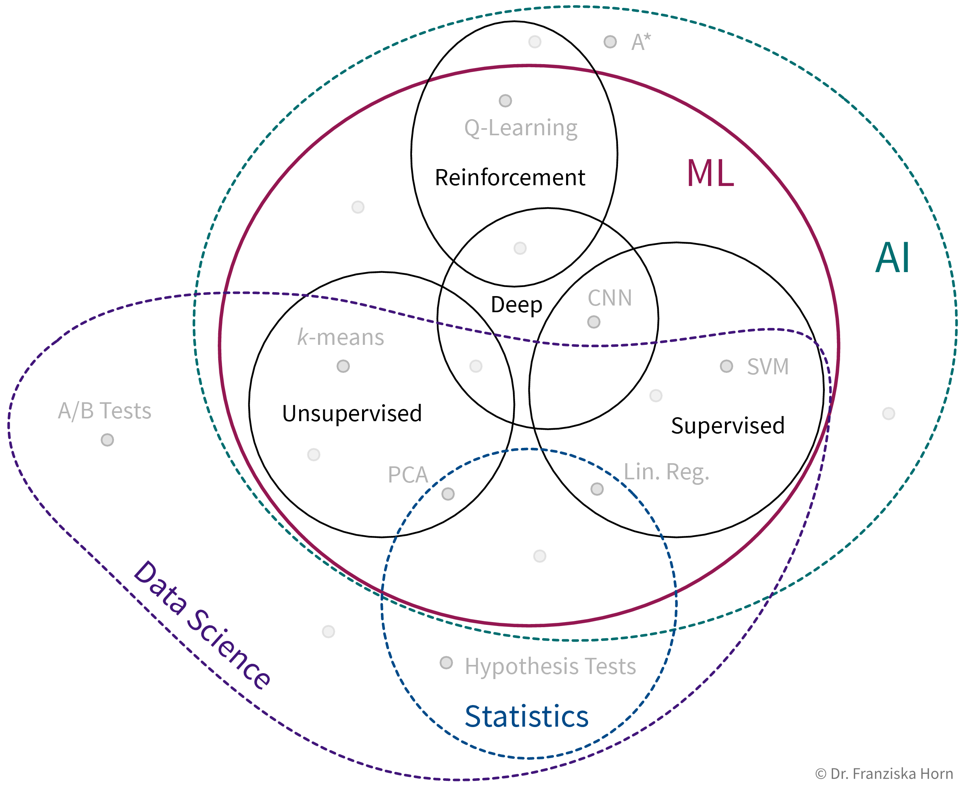
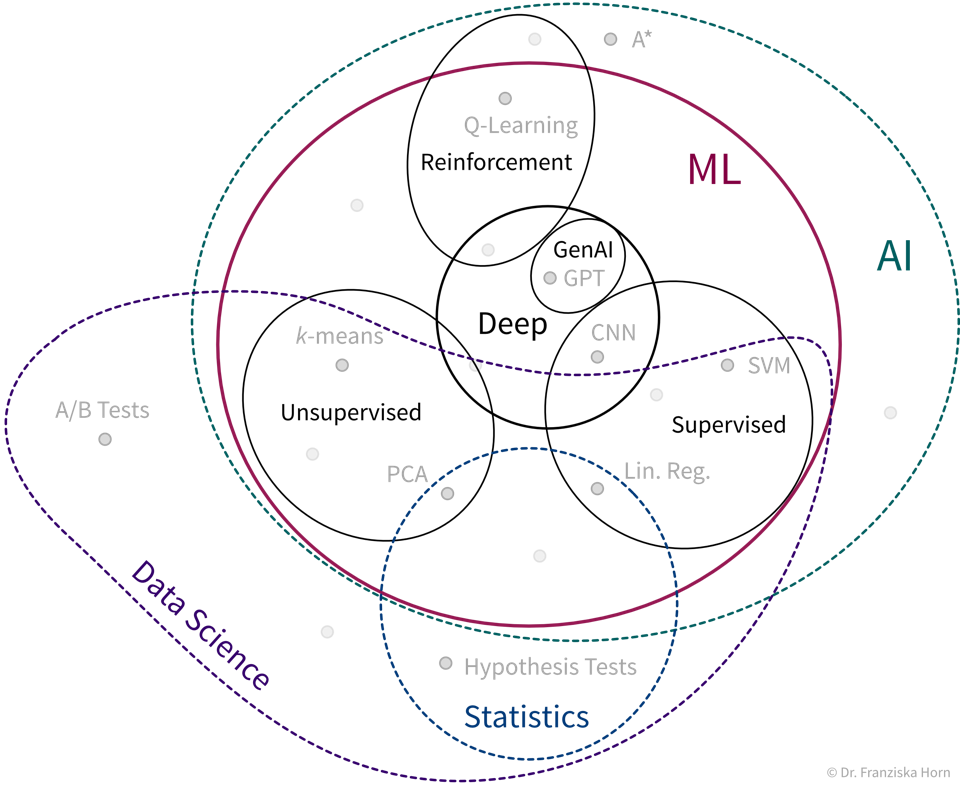
add genai in toolbox image

diff --git a/mlbook_abstract_all.html b/mlbook_abstract_all.html
@@ -1487,7 +1487,7 @@ Simply speaking, an <strong>algorithm</strong> can be thought of as a <strong>st
 <div class="content">
 <img src="images/01b_intro_ml/ml_toolset6.png" alt="image" width="640">
 </div>
-<div class="title"><span class="small">ML itself is a subfield of AI, which is currently the more frequently used buzzword, but all the cool applications (e.g., the examples we&#8217;ve seen in the beginning) actually use ML. Besides ML, AI includes, for example, some search algorithms that were used for building the first chess computers. ML can be divided into three main subfields, unsupervised, supervised, and reinforcement learning. Additionally, the subfield &#8220;deep learning&#8221; is a buzzword for neural network models. Some of the simplest algorithms used in ML, like linear regression or PCA (very similar to factor analysis), are also used by statisticians, who additionally use other tools, like hypothesis tests, which do not learn rules or patterns from data. Finally, most data scientists use many tools from ML and statistics, but they as well use some additional tools like A/B tests, e.g., for collecting data on whether a red or green &#8220;buy&#8221; button on a website generates more sales, which do not fall into any of the other categories.</span></div>
+<div class="title"><span class="small">ML itself is a subfield of AI, which is currently the more frequently used buzzword, but all the cool applications (e.g., the examples we&#8217;ve seen in the beginning) actually use ML. Besides ML, AI includes, for example, some search algorithms that were used for building the first chess computers. ML can be divided into three main subfields, unsupervised, supervised, and reinforcement learning. Additionally, the subfield &#8220;deep learning&#8221; is a buzzword for neural network models and also includes Generative AI (GenAI) models like ChatGPT. Some of the simplest algorithms used in ML, like linear regression or PCA (very similar to factor analysis), are also used by statisticians, who additionally use other tools, like hypothesis tests, which do not learn rules or patterns from data. Finally, most data scientists use many tools from ML and statistics, but they as well use some additional tools like A/B tests, e.g., for collecting data on whether a red or green &#8220;buy&#8221; button on a website generates more sales, which do not fall into any of the other categories.</span></div>
 </div>
 <div class="dlist">
 <dl>
@@ -2704,7 +2704,7 @@ Does the solution consist of a piece of <strong>software</strong> that is deploy
 <p>Do you need an additional user interface (UI) or API to interact with the ML model?</p>
 </li>
 <li>
-<p>Does the ML model need to make predictions instantly as new data comes in or can it process data asynchronously in batches? What is the expected traffic (i.e., number of data points that need to be processed per seconds)?</p>
+<p>Does the ML model need to make predictions instantly as new data comes in or can it process data asynchronously in batches? What is the expected traffic (i.e., number of data points that need to be processed per second)?</p>
 </li>
 <li>
 <p>How should the ML model be deployed (e.g., cloud, on-premise, or edge device)? Does this require any additional infrastructure or special hardware (e.g., GPUs)?</p>

diff --git a/mlbook_all.html b/mlbook_all.html
@@ -1608,7 +1608,7 @@ Simply speaking, an <strong>algorithm</strong> can be thought of as a <strong>st
 <div class="content">
 <img src="images/01b_intro_ml/ml_toolset6.png" alt="image" width="640">
 </div>
-<div class="title"><span class="small">ML itself is a subfield of AI, which is currently the more frequently used buzzword, but all the cool applications (e.g., the examples we&#8217;ve seen in the beginning) actually use ML. Besides ML, AI includes, for example, some search algorithms that were used for building the first chess computers. ML can be divided into three main subfields, unsupervised, supervised, and reinforcement learning. Additionally, the subfield &#8220;deep learning&#8221; is a buzzword for neural network models. Some of the simplest algorithms used in ML, like linear regression or PCA (very similar to factor analysis), are also used by statisticians, who additionally use other tools, like hypothesis tests, which do not learn rules or patterns from data. Finally, most data scientists use many tools from ML and statistics, but they as well use some additional tools like A/B tests, e.g., for collecting data on whether a red or green &#8220;buy&#8221; button on a website generates more sales, which do not fall into any of the other categories.</span></div>
+<div class="title"><span class="small">ML itself is a subfield of AI, which is currently the more frequently used buzzword, but all the cool applications (e.g., the examples we&#8217;ve seen in the beginning) actually use ML. Besides ML, AI includes, for example, some search algorithms that were used for building the first chess computers. ML can be divided into three main subfields, unsupervised, supervised, and reinforcement learning. Additionally, the subfield &#8220;deep learning&#8221; is a buzzword for neural network models and also includes Generative AI (GenAI) models like ChatGPT. Some of the simplest algorithms used in ML, like linear regression or PCA (very similar to factor analysis), are also used by statisticians, who additionally use other tools, like hypothesis tests, which do not learn rules or patterns from data. Finally, most data scientists use many tools from ML and statistics, but they as well use some additional tools like A/B tests, e.g., for collecting data on whether a red or green &#8220;buy&#8221; button on a website generates more sales, which do not fall into any of the other categories.</span></div>
 </div>
 <div class="dlist">
 <dl>
@@ -2825,7 +2825,7 @@ Does the solution consist of a piece of <strong>software</strong> that is deploy
 <p>Do you need an additional user interface (UI) or API to interact with the ML model?</p>
 </li>
 <li>
-<p>Does the ML model need to make predictions instantly as new data comes in or can it process data asynchronously in batches? What is the expected traffic (i.e., number of data points that need to be processed per seconds)?</p>
+<p>Does the ML model need to make predictions instantly as new data comes in or can it process data asynchronously in batches? What is the expected traffic (i.e., number of data points that need to be processed per second)?</p>
 </li>
 <li>
 <p>How should the ML model be deployed (e.g., cloud, on-premise, or edge device)? Does this require any additional infrastructure or special hardware (e.g., GPUs)?</p>

diff --git a/mlbuch_auszug/_was_ist_ml.html b/mlbuch_auszug/_was_ist_ml.html
@@ -1028,7 +1028,7 @@ Vereinfacht kann man sich einen <strong>Algorithmus</strong> als <strong>Strateg
 <div class="content">
 <img src="../images/01b_intro_ml/ml_toolset6.png" alt="image" width="640">
 </div>
-<div class="title"><span class="small">ML selbst ist ein Teilbereich der Künstlichen Intelligenz (KI/AI), das derzeit zwar häufiger verwendete Buzzword, jedoch basieren alle wirklich interessanten Anwendungen, z.B. die initial gezeigten Beispiele, tatsächlich auf ML. Zu KI gehören ansonsten zum Beispiel noch einige Suchalgorithmen, die beim Bau der ersten Schachcomputer verwendet wurden. ML kann wiederum in drei Hauptbereiche unterteilt werden, Unsupervised (&#8220;Unüberwachtes&#8221;), Supervised (&#8220;Überwachtes&#8221;) und Reinforcement (&#8220;Bestärkendes&#8221;) Learning. Das Buzzword &#8220;Deep Learning&#8221; ist außerdem ein Überbegriff für neuronale Netzwerkmodelle. Einige der einfachsten im ML verwendeten Algorithmen, wie die lineare Regression oder PCA (sehr ähnlich der Faktorenanalyse), werden auch von Statistikern verwendet, die jedoch auch andere Werkzeuge wie Hypothesentests verwenden, welche keine Regeln oder Muster aus Daten lernen. Die meisten Data Scientists verwenden viele Methoden aus ML und Statistik, aber auch zusätzliche Werkzeuge wie A/B-Tests, z.B. um zu überprüfen, ob ein roter oder grüner &#8220;Kaufen&#8221;-Button auf einer Website mehr Umsatz generiert.</span></div>
+<div class="title"><span class="small">ML selbst ist ein Teilbereich der Künstlichen Intelligenz (KI/AI), das derzeit zwar häufiger verwendete Buzzword, jedoch basieren alle wirklich interessanten Anwendungen, z.B. die initial gezeigten Beispiele, tatsächlich auf ML. Zu KI gehören ansonsten zum Beispiel noch einige Suchalgorithmen, die beim Bau der ersten Schachcomputer verwendet wurden. ML kann wiederum in drei Hauptbereiche unterteilt werden, Unsupervised (&#8220;Unüberwachtes&#8221;), Supervised (&#8220;Überwachtes&#8221;) und Reinforcement (&#8220;Bestärkendes&#8221;) Learning. Das Buzzword &#8220;Deep Learning&#8221; ist außerdem ein Überbegriff für neuronale Netzwerkmodelle und beinhaltet auch Generative AI (GenAI) Modelle wie ChatGPT. Einige der einfachsten im ML verwendeten Algorithmen, wie die lineare Regression oder PCA (sehr ähnlich der Faktorenanalyse), werden auch von Statistikern verwendet, die jedoch auch andere Werkzeuge wie Hypothesentests verwenden, welche keine Regeln oder Muster aus Daten lernen. Die meisten Data Scientists verwenden viele Methoden aus ML und Statistik, aber auch zusätzliche Werkzeuge wie A/B-Tests, z.B. um zu überprüfen, ob ein roter oder grüner &#8220;Kaufen&#8221;-Button auf einer Website mehr Umsatz generiert.</span></div>
 </div>
 <div class="dlist">
 <dl>

diff --git a/mlbuch_auszug_all.html b/mlbuch_auszug_all.html
@@ -1487,7 +1487,7 @@ Vereinfacht kann man sich einen <strong>Algorithmus</strong> als <strong>Strateg
 <div class="content">
 <img src="images/01b_intro_ml/ml_toolset6.png" alt="image" width="640">
 </div>
-<div class="title"><span class="small">ML selbst ist ein Teilbereich der Künstlichen Intelligenz (KI/AI), das derzeit zwar häufiger verwendete Buzzword, jedoch basieren alle wirklich interessanten Anwendungen, z.B. die initial gezeigten Beispiele, tatsächlich auf ML. Zu KI gehören ansonsten zum Beispiel noch einige Suchalgorithmen, die beim Bau der ersten Schachcomputer verwendet wurden. ML kann wiederum in drei Hauptbereiche unterteilt werden, Unsupervised (&#8220;Unüberwachtes&#8221;), Supervised (&#8220;Überwachtes&#8221;) und Reinforcement (&#8220;Bestärkendes&#8221;) Learning. Das Buzzword &#8220;Deep Learning&#8221; ist außerdem ein Überbegriff für neuronale Netzwerkmodelle. Einige der einfachsten im ML verwendeten Algorithmen, wie die lineare Regression oder PCA (sehr ähnlich der Faktorenanalyse), werden auch von Statistikern verwendet, die jedoch auch andere Werkzeuge wie Hypothesentests verwenden, welche keine Regeln oder Muster aus Daten lernen. Die meisten Data Scientists verwenden viele Methoden aus ML und Statistik, aber auch zusätzliche Werkzeuge wie A/B-Tests, z.B. um zu überprüfen, ob ein roter oder grüner &#8220;Kaufen&#8221;-Button auf einer Website mehr Umsatz generiert.</span></div>
+<div class="title"><span class="small">ML selbst ist ein Teilbereich der Künstlichen Intelligenz (KI/AI), das derzeit zwar häufiger verwendete Buzzword, jedoch basieren alle wirklich interessanten Anwendungen, z.B. die initial gezeigten Beispiele, tatsächlich auf ML. Zu KI gehören ansonsten zum Beispiel noch einige Suchalgorithmen, die beim Bau der ersten Schachcomputer verwendet wurden. ML kann wiederum in drei Hauptbereiche unterteilt werden, Unsupervised (&#8220;Unüberwachtes&#8221;), Supervised (&#8220;Überwachtes&#8221;) und Reinforcement (&#8220;Bestärkendes&#8221;) Learning. Das Buzzword &#8220;Deep Learning&#8221; ist außerdem ein Überbegriff für neuronale Netzwerkmodelle und beinhaltet auch Generative AI (GenAI) Modelle wie ChatGPT. Einige der einfachsten im ML verwendeten Algorithmen, wie die lineare Regression oder PCA (sehr ähnlich der Faktorenanalyse), werden auch von Statistikern verwendet, die jedoch auch andere Werkzeuge wie Hypothesentests verwenden, welche keine Regeln oder Muster aus Daten lernen. Die meisten Data Scientists verwenden viele Methoden aus ML und Statistik, aber auch zusätzliche Werkzeuge wie A/B-Tests, z.B. um zu überprüfen, ob ein roter oder grüner &#8220;Kaufen&#8221;-Button auf einer Website mehr Umsatz generiert.</span></div>
 </div>
 <div class="dlist">
 <dl>

diff --git a/mlbook/_what_is_ml.html b/mlbook/_what_is_ml.html
@@ -1036,7 +1036,7 @@ Simply speaking, an <strong>algorithm</strong> can be thought of as a <strong>st
 <div class="content">
 <img src="../images/01b_intro_ml/ml_toolset6.png" alt="image" width="640">
 </div>
-<div class="title"><span class="small">ML itself is a subfield of AI, which is currently the more frequently used buzzword, but all the cool applications (e.g., the examples we&#8217;ve seen in the beginning) actually use ML. Besides ML, AI includes, for example, some search algorithms that were used for building the first chess computers. ML can be divided into three main subfields, unsupervised, supervised, and reinforcement learning. Additionally, the subfield &#8220;deep learning&#8221; is a buzzword for neural network models. Some of the simplest algorithms used in ML, like linear regression or PCA (very similar to factor analysis), are also used by statisticians, who additionally use other tools, like hypothesis tests, which do not learn rules or patterns from data. Finally, most data scientists use many tools from ML and statistics, but they as well use some additional tools like A/B tests, e.g., for collecting data on whether a red or green &#8220;buy&#8221; button on a website generates more sales, which do not fall into any of the other categories.</span></div>
+<div class="title"><span class="small">ML itself is a subfield of AI, which is currently the more frequently used buzzword, but all the cool applications (e.g., the examples we&#8217;ve seen in the beginning) actually use ML. Besides ML, AI includes, for example, some search algorithms that were used for building the first chess computers. ML can be divided into three main subfields, unsupervised, supervised, and reinforcement learning. Additionally, the subfield &#8220;deep learning&#8221; is a buzzword for neural network models and also includes Generative AI (GenAI) models like ChatGPT. Some of the simplest algorithms used in ML, like linear regression or PCA (very similar to factor analysis), are also used by statisticians, who additionally use other tools, like hypothesis tests, which do not learn rules or patterns from data. Finally, most data scientists use many tools from ML and statistics, but they as well use some additional tools like A/B tests, e.g., for collecting data on whether a red or green &#8220;buy&#8221; button on a website generates more sales, which do not fall into any of the other categories.</span></div>
 </div>
 <div class="dlist">
 <dl>

diff --git a/mlbook_abstract/_what_is_ml.html b/mlbook_abstract/_what_is_ml.html
@@ -1028,7 +1028,7 @@ Simply speaking, an <strong>algorithm</strong> can be thought of as a <strong>st
 <div class="content">
 <img src="../images/01b_intro_ml/ml_toolset6.png" alt="image" width="640">
 </div>
-<div class="title"><span class="small">ML itself is a subfield of AI, which is currently the more frequently used buzzword, but all the cool applications (e.g., the examples we&#8217;ve seen in the beginning) actually use ML. Besides ML, AI includes, for example, some search algorithms that were used for building the first chess computers. ML can be divided into three main subfields, unsupervised, supervised, and reinforcement learning. Additionally, the subfield &#8220;deep learning&#8221; is a buzzword for neural network models. Some of the simplest algorithms used in ML, like linear regression or PCA (very similar to factor analysis), are also used by statisticians, who additionally use other tools, like hypothesis tests, which do not learn rules or patterns from data. Finally, most data scientists use many tools from ML and statistics, but they as well use some additional tools like A/B tests, e.g., for collecting data on whether a red or green &#8220;buy&#8221; button on a website generates more sales, which do not fall into any of the other categories.</span></div>
+<div class="title"><span class="small">ML itself is a subfield of AI, which is currently the more frequently used buzzword, but all the cool applications (e.g., the examples we&#8217;ve seen in the beginning) actually use ML. Besides ML, AI includes, for example, some search algorithms that were used for building the first chess computers. ML can be divided into three main subfields, unsupervised, supervised, and reinforcement learning. Additionally, the subfield &#8220;deep learning&#8221; is a buzzword for neural network models and also includes Generative AI (GenAI) models like ChatGPT. Some of the simplest algorithms used in ML, like linear regression or PCA (very similar to factor analysis), are also used by statisticians, who additionally use other tools, like hypothesis tests, which do not learn rules or patterns from data. Finally, most data scientists use many tools from ML and statistics, but they as well use some additional tools like A/B tests, e.g., for collecting data on whether a red or green &#8220;buy&#8221; button on a website generates more sales, which do not fall into any of the other categories.</span></div>
 </div>
 <div class="dlist">
 <dl>

diff --git a/mlbook/_solving_problems_with_ml.html b/mlbook/_solving_problems_with_ml.html
@@ -1114,7 +1114,7 @@ Does the solution consist of a piece of <strong>software</strong> that is deploy
 <p>Do you need an additional user interface (UI) or API to interact with the ML model?</p>
 </li>
 <li>
-<p>Does the ML model need to make predictions instantly as new data comes in or can it process data asynchronously in batches? What is the expected traffic (i.e., number of data points that need to be processed per seconds)?</p>
+<p>Does the ML model need to make predictions instantly as new data comes in or can it process data asynchronously in batches? What is the expected traffic (i.e., number of data points that need to be processed per second)?</p>
 </li>
 <li>
 <p>How should the ML model be deployed (e.g., cloud, on-premise, or edge device)? Does this require any additional infrastructure or special hardware (e.g., GPUs)?</p>

diff --git a/mlbook_abstract/_solving_problems_with_ml.html b/mlbook_abstract/_solving_problems_with_ml.html
@@ -1106,7 +1106,7 @@ Does the solution consist of a piece of <strong>software</strong> that is deploy
 <p>Do you need an additional user interface (UI) or API to interact with the ML model?</p>
 </li>
 <li>
-<p>Does the ML model need to make predictions instantly as new data comes in or can it process data asynchronously in batches? What is the expected traffic (i.e., number of data points that need to be processed per seconds)?</p>
+<p>Does the ML model need to make predictions instantly as new data comes in or can it process data asynchronously in batches? What is the expected traffic (i.e., number of data points that need to be processed per second)?</p>
 </li>
 <li>
 <p>How should the ML model be deployed (e.g., cloud, on-premise, or edge device)? Does this require any additional infrastructure or special hardware (e.g., GPUs)?</p>

diff --git a/resources.html b/resources.html
@@ -47,7 +47,7 @@
 
 
 <h2>resources</h2>
-<p>Here you can find some resources to improve your machine learning and Python knowledge:</p>
+<p>Here you can find some free resources to improve your machine learning and Python knowledge:</p>
 
 <ul>
     <li>My free online book <a href="./mlbook/index.html" target="_blank">"A Practitioner's Guide to Machine Learning"</a></li>
